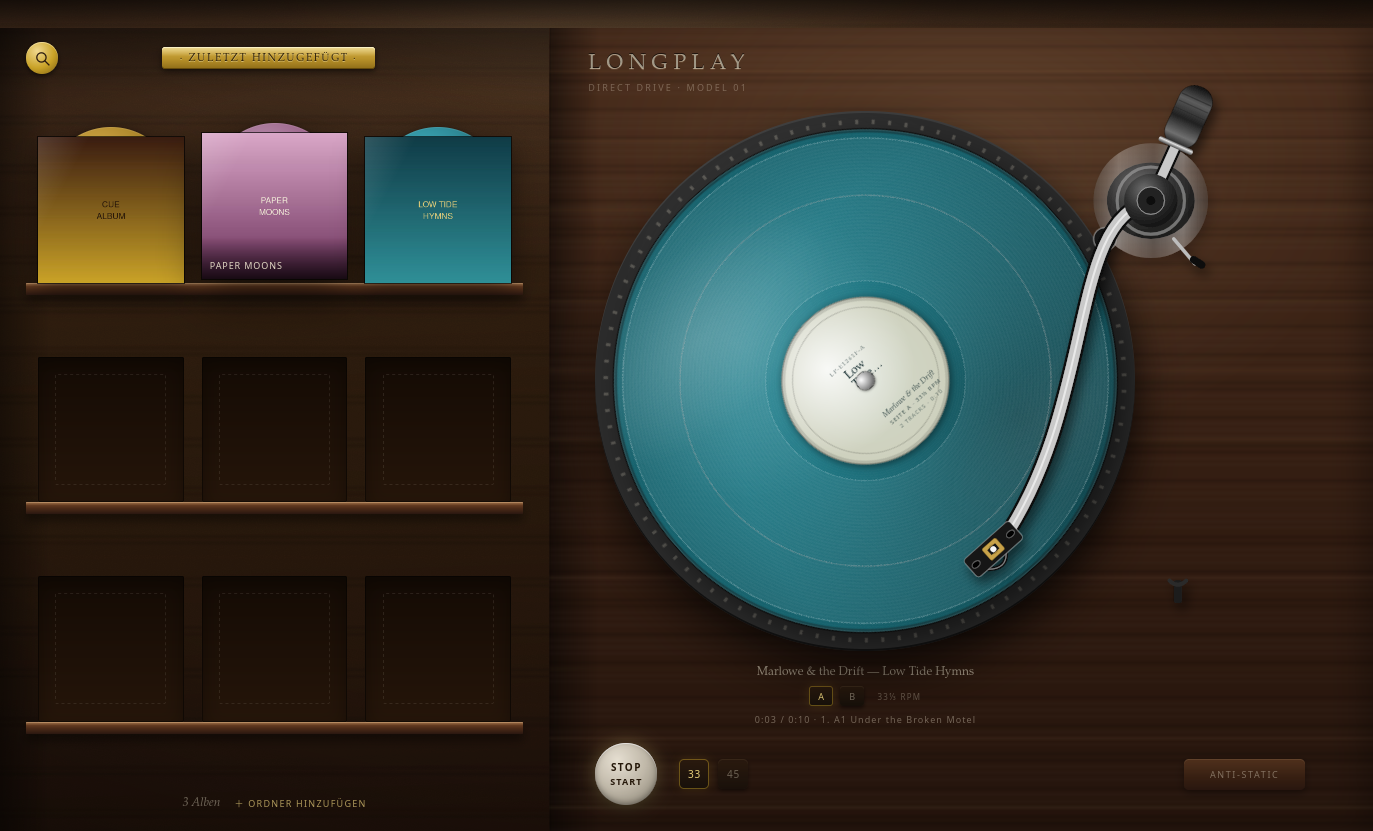
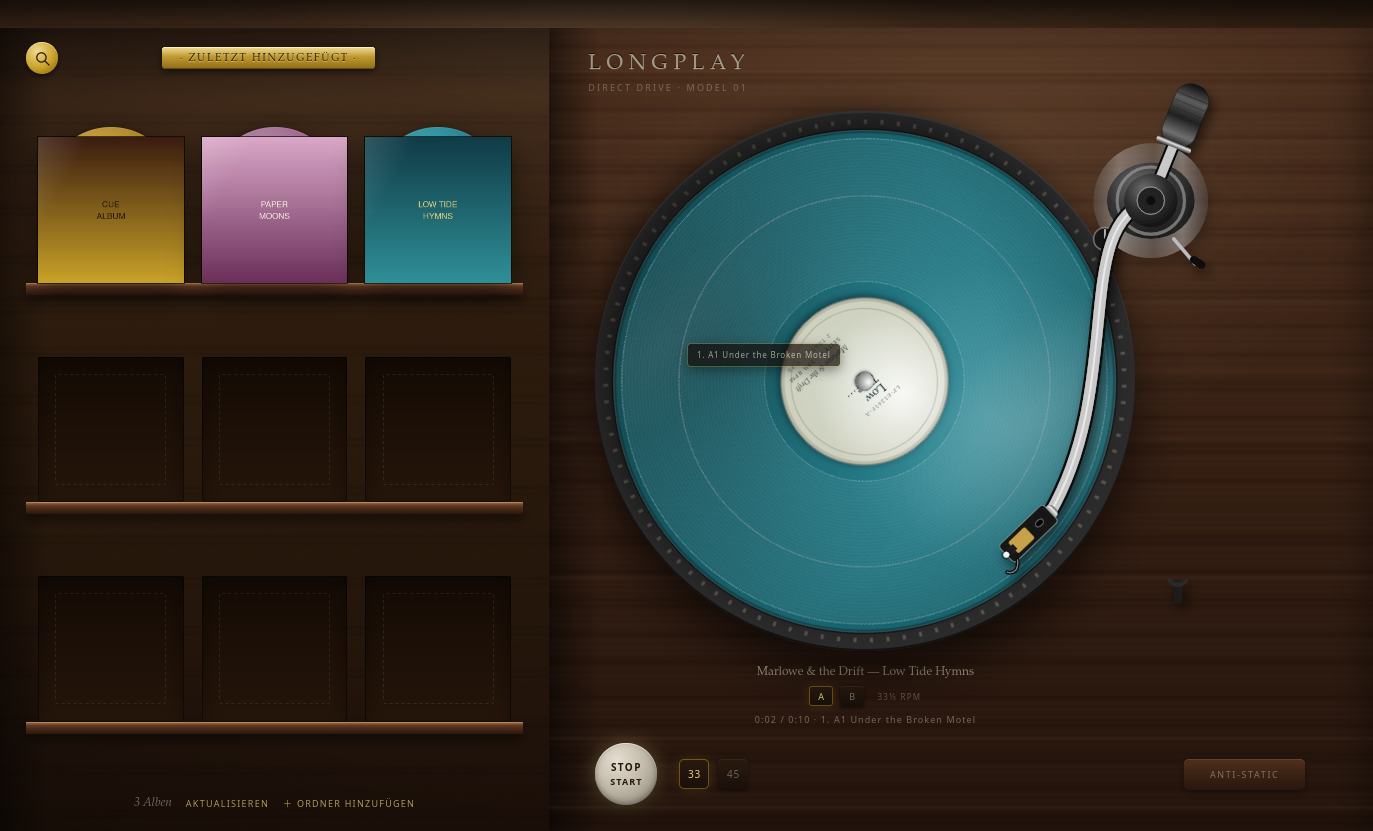
Put the stylus at the front-centre of the headshell
- headshell body and tube sit behind the stylus, the tip is the frontmost point
- shell enlarged to 16 % of the arm length with three lightening holes
- test: every groove band starts and ends exactly at the audio track times
- 94 tests, clippy and svelte-check clean

diff --git a/src/lib/components/Deck.svelte b/src/lib/components/Deck.svelte
@@ -180,11 +180,13 @@
   // The headshell is offset against the arm axis; the stylus sits in its middle.
   const shellPhi = $derived(armPhi + (24 * Math.PI) / 180);
   const shellPhiDeg = $derived((shellPhi * 180) / Math.PI);
+  // The stylus is the front-centre of the headshell; the body and the tube
+  // sit behind it.
   const shellRearX = $derived(
-    stylusX - Math.cos(shellPhi) * armLengthPx * 0.032,
+    stylusX - Math.cos(shellPhi) * armLengthPx * 0.16,
   );
   const shellRearY = $derived(
-    stylusY - Math.sin(shellPhi) * armLengthPx * 0.032,
+    stylusY - Math.sin(shellPhi) * armLengthPx * 0.16,
   );
 
   // S-shaped arm tube: two opposite bends between the pivot and the headshell.
@@ -601,24 +603,9 @@
 
         <!-- Headshell with finger lift, stylus centred -->
         <g transform={`translate(${stylusX} ${stylusY}) rotate(${shellPhiDeg})`}>
-          <!-- black finger lift -->
-          <path
-            d={`M ${-armLengthPx * 0.018} ${-armLengthPx * 0.03} Q ${armLengthPx * 0.008} ${-armLengthPx * 0.062} ${armLengthPx * 0.045} ${-armLengthPx * 0.03}`}
-            fill="none"
-            stroke="#101010"
-            stroke-width="4"
-            stroke-linecap="round"
-          />
-          <path
-            d={`M ${-armLengthPx * 0.018} ${-armLengthPx * 0.03} Q ${armLengthPx * 0.008} ${-armLengthPx * 0.062} ${armLengthPx * 0.045} ${-armLengthPx * 0.03}`}
-            fill="none"
-            stroke="rgba(255,255,255,0.22)"
-            stroke-width="1"
-            stroke-linecap="round"
-          />
-          <!-- headshell body with lightening holes -->
+          <!-- headshell body, stylus at the front-centre -->
           <rect
-            x={-armLengthPx * 0.08}
+            x={-armLengthPx * 0.16}
             y={-armLengthPx * 0.031}
             width={armLengthPx * 0.16}
             height={armLengthPx * 0.062}
@@ -626,25 +613,49 @@
             fill="#161616"
             stroke="rgba(255,255,255,0.14)"
           />
-          <ellipse cx={-armLengthPx * 0.06} cy="0" rx={armLengthPx * 0.012} ry={armLengthPx * 0.008} fill="#050505" stroke="rgba(255,255,255,0.1)" />
-          <ellipse cx="0" cy="0" rx={armLengthPx * 0.012} ry={armLengthPx * 0.008} fill="#050505" stroke="rgba(255,255,255,0.1)" />
-          <ellipse cx={armLengthPx * 0.06} cy="0" rx={armLengthPx * 0.012} ry={armLengthPx * 0.008} fill="#050505" stroke="rgba(255,255,255,0.1)" />
-          <!-- gold cartridge, stylus centred -->
+          <ellipse cx={-armLengthPx * 0.12} cy="0" rx={armLengthPx * 0.012} ry={armLengthPx * 0.008} fill="#050505" stroke="rgba(255,255,255,0.1)" />
+          <ellipse cx={-armLengthPx * 0.07} cy="0" rx={armLengthPx * 0.012} ry={armLengthPx * 0.008} fill="#050505" stroke="rgba(255,255,255,0.1)" />
+          <ellipse cx={-armLengthPx * 0.022} cy="0" rx={armLengthPx * 0.01} ry={armLengthPx * 0.007} fill="#050505" stroke="rgba(255,255,255,0.1)" />
+          <!-- black finger lift at the front corner -->
+          <path
+            d={`M ${-armLengthPx * 0.012} ${-armLengthPx * 0.03} Q ${armLengthPx * 0.012} ${-armLengthPx * 0.06} ${armLengthPx * 0.03} ${-armLengthPx * 0.035}`}
+            fill="none"
+            stroke="#101010"
+            stroke-width="4"
+            stroke-linecap="round"
+          />
+          <path
+            d={`M ${-armLengthPx * 0.012} ${-armLengthPx * 0.03} Q ${armLengthPx * 0.012} ${-armLengthPx * 0.06} ${armLengthPx * 0.03} ${-armLengthPx * 0.035}`}
+            fill="none"
+            stroke="rgba(255,255,255,0.22)"
+            stroke-width="1"
+            stroke-linecap="round"
+          />
+          <!-- gold cartridge behind the stylus -->
           <rect
-            x={-armLengthPx * 0.024}
+            x={-armLengthPx * 0.085}
             y={-armLengthPx * 0.02}
-            width={armLengthPx * 0.048}
+            width={armLengthPx * 0.06}
             height={armLengthPx * 0.04}
             rx="2"
             fill="#c8a24a"
             stroke="rgba(0,0,0,0.45)"
           />
           <rect
-            x={-armLengthPx * 0.014}
+            x={-armLengthPx * 0.032}
             y={-armLengthPx * 0.009}
-            width={armLengthPx * 0.028}
+            width={armLengthPx * 0.03}
             height={armLengthPx * 0.018}
             fill="#1a1a1a"
+          />
+          <!-- cantilever and stylus tip at the very front -->
+          <line
+            x1={-armLengthPx * 0.004}
+            y1="0"
+            x2={0}
+            y2="0"
+            stroke="#d8d8d8"
+            stroke-width="1.6"
           />
           <circle r={Math.max(3.4, armLengthPx * 0.013)} fill="rgba(0,0,0,0.35)" />
           <circle r={Math.max(1.9, armLengthPx * 0.0075)} fill="#f6f6f6" />

diff --git a/src-tauri/src/audio/groove.rs b/src-tauri/src/audio/groove.rs
@@ -290,6 +290,35 @@ mod tests {
     }
 
     #[test]
+    fn track_bands_start_exactly_at_the_audio_tracks() {
+        let side = side(&[300.0, 180.0, 240.0], &[1.5, 1.5, 1.5]);
+        let timeline = SideTimeline::from_side(&side);
+        let layout = GrooveLayout::for_side(&timeline, DiscFormat::Lp12, Rpm::R33);
+
+        for (index, track) in timeline.tracks.iter().enumerate() {
+            let band = layout
+                .bands
+                .iter()
+                .find(|band| band.kind == GrooveKind::Track && band.track_index == Some(index))
+                .unwrap_or_else(|| panic!("track band {index} missing"));
+            assert!(
+                (band.start_time - track.start).abs() < 1e-9,
+                "track {index}: band starts at {} but audio at {}",
+                band.start_time,
+                track.start
+            );
+            assert!(
+                (band.end_time - (track.start + track.duration)).abs() < 1e-9,
+                "track {index}: band ends at {} but audio at {}",
+                band.end_time,
+                track.start + track.duration
+            );
+            let radius = layout.radius_for_time(track.start).unwrap();
+            assert!((radius - band.start).abs() < 1e-6);
+        }
+    }
+
+    #[test]
     fn maps_time_to_radius_monotonically() {
         let layout = layout(&[300.0, 150.0], &[1.5, 1.5]);
         let mut previous = f64::MAX;
